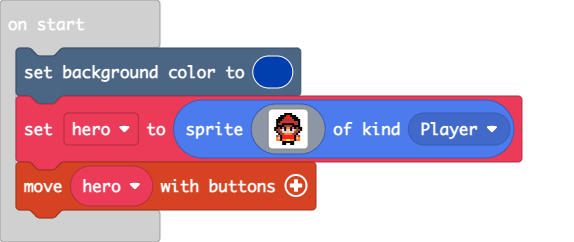
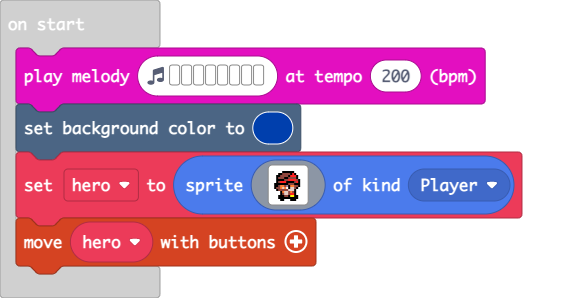
added music

diff --git a/main.ts b/main.ts
@@ -1,20 +1,21 @@
+music.playMelody("G G B G D G B G ", 200)
 scene.setBackgroundColor(8)
 let hero = sprites.create(img`
-    . . . . . . f f f f . . . . . . 
-    . . . . f f f 2 2 f f f . . . . 
-    . . . f f f 2 2 2 2 f f f . . . 
-    . . f f f e e e e e e f f f . . 
-    . . f f e 2 2 2 2 2 2 e e f . . 
-    . . f e 2 f f f f f f 2 e f . . 
-    . . f f f f e e e e f f f f . . 
-    . f f e f b f 4 4 f b f e f f . 
-    . f e e 4 1 f d d f 1 4 e e f . 
-    . . f e e d d d d d d e e f . . 
-    . . . f e e 4 4 4 4 e e f . . . 
-    . . e 4 f 2 2 2 2 2 2 f 4 e . . 
-    . . 4 d f 2 2 2 2 2 2 f d 4 . . 
-    . . 4 4 f 4 4 5 5 4 4 f 4 4 . . 
+    . . . . . . . . . . . . . . . . 
     . . . . . f f f f f f . . . . . 
-    . . . . . f f . . f f . . . . . 
+    . . . f f e e e e f 2 f . . . . 
+    . . f f e e e e f 2 2 2 f . . . 
+    . . f e e e f f e e e e f . . . 
+    . . f f f f e e 2 2 2 2 e f . . 
+    . . f e 2 2 2 f f f f e 2 f . . 
+    . f f f f f f f e e e f f f . . 
+    . f f e 4 4 e b f 4 4 e e f . . 
+    . f e e 4 d 4 1 f d d e f . . . 
+    . . f e e e e e d d d f . . . . 
+    . . . . f 4 d d e 4 e f . . . . 
+    . . . . f e d d e 2 2 f . . . . 
+    . . . f f f e e f 5 5 f f . . . 
+    . . . f f f f f f f f f f . . . 
+    . . . . f f . . . f f f . . . . 
     `, SpriteKind.Player)
 controller.moveSprite(hero)
